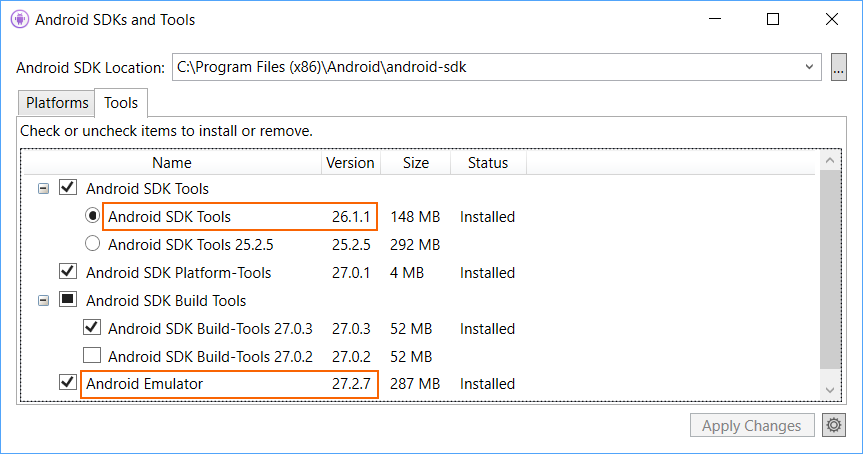
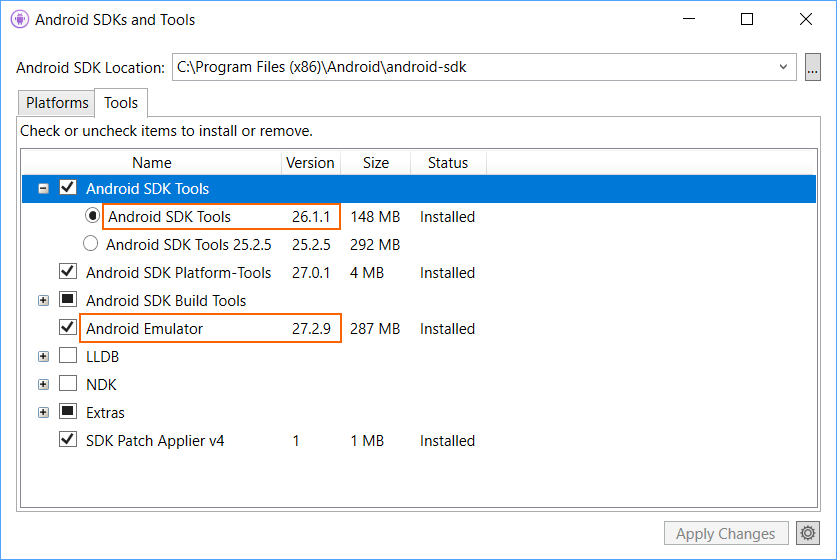
Remove preview instructions from Hyper-V (#557)
* Remove preview from hyper-v, update versions

* Use Microsoft repo

* Use version of emulator that shows up in 15.8 RTW

* Update sdk and tools screenshot

diff --git a/docs/android/get-started/installation/android-emulator/hardware-acceleration.md b/docs/android/get-started/installation/android-emulator/hardware-acceleration.md
@@ -6,7 +6,7 @@ ms.assetid: 915874C3-2F0F-4D83-9C39-ED6B90BB2C8E
 ms.technology: xamarin-android
 author: mgmclemore
 ms.author: mamcle
-ms.date: 06/22/2018
+ms.date: 08/14/2018
 ---
 
 # Hardware Acceleration for Emulator Performance
@@ -54,11 +54,6 @@ Emulator, see
 
 # [Visual Studio](#tab/vswin)
 
-![](~/media/shared/preview.png)
-
-> [!NOTE]
-> Hyper-V support is currently in Preview.
-
 Developers who are using Windows 10 (April 2018 Update or later) are
 strongly encouraged to use Microsoft's Hyper-V to accelerate the 
 Android Emulator. To use the Android Emulator with Hyper-V:
@@ -84,36 +79,20 @@ Android Emulator. To use the Android Emulator with Hyper-V:
    change.
 
 3. **Install
-   [Visual Studio 15.8 Preview 1 or later](https://visualstudio.microsoft.com/vs/preview/)**.
+   [Visual Studio 15.8 or later](https://visualstudio.microsoft.com/vs/)**.
    This version of Visual Studio provides IDE support for
    running the Android Emulator with Hyper-V.
  
-4. **Install the Android Emulator package 27.2.7 or later**. To
+4. **Install the Android Emulator package 27.2.9 or later**. To
    install this package, navigate to **Tools > Android > Android SDK
    Manager** in Visual Studio. Select the **Tools** tab and ensure that
-   the Android Emulator version is at least 27.2.7. Also ensure that
+   the Android Emulator version is at least 27.2.9. Also ensure that
    the Android SDK Tools version is 26.1.1 or later:
 
     [![Android SDKs and Tools dialog](hardware-acceleration-images/win/14-sdk-manager.w158-sml.png)](hardware-acceleration-images/win/14-sdk-manager.w158.png#lightbox)
 
-5. If the emulator version is at least 27.2.7 but less than 27.3.1,
-   the following workaround is required to use Hyper-V:
-
-    1.  In the **C:\\Users\\_username_\\.android** folder, create a file called **advancedFeatures.ini** 
-        (if it doesn't already exist).
-
-    2.  Add the following line to **advancedFeatures.ini**:
-        ```
-        WindowsHypervisorPlatform = on
-        ```
-
 
 ### Known Issues
-
--   If you are unable to update to emulator version 27.2.7 or later after
-    updating to a Visual Studio preview, you may have to
-    directly install the [preview installer](http://aka.ms/hyperv-emulator-dl)
-    to enable newer emulator versions.
 
 -   Performance may be reduced when using certain Intel and AMD-based
     processors.
